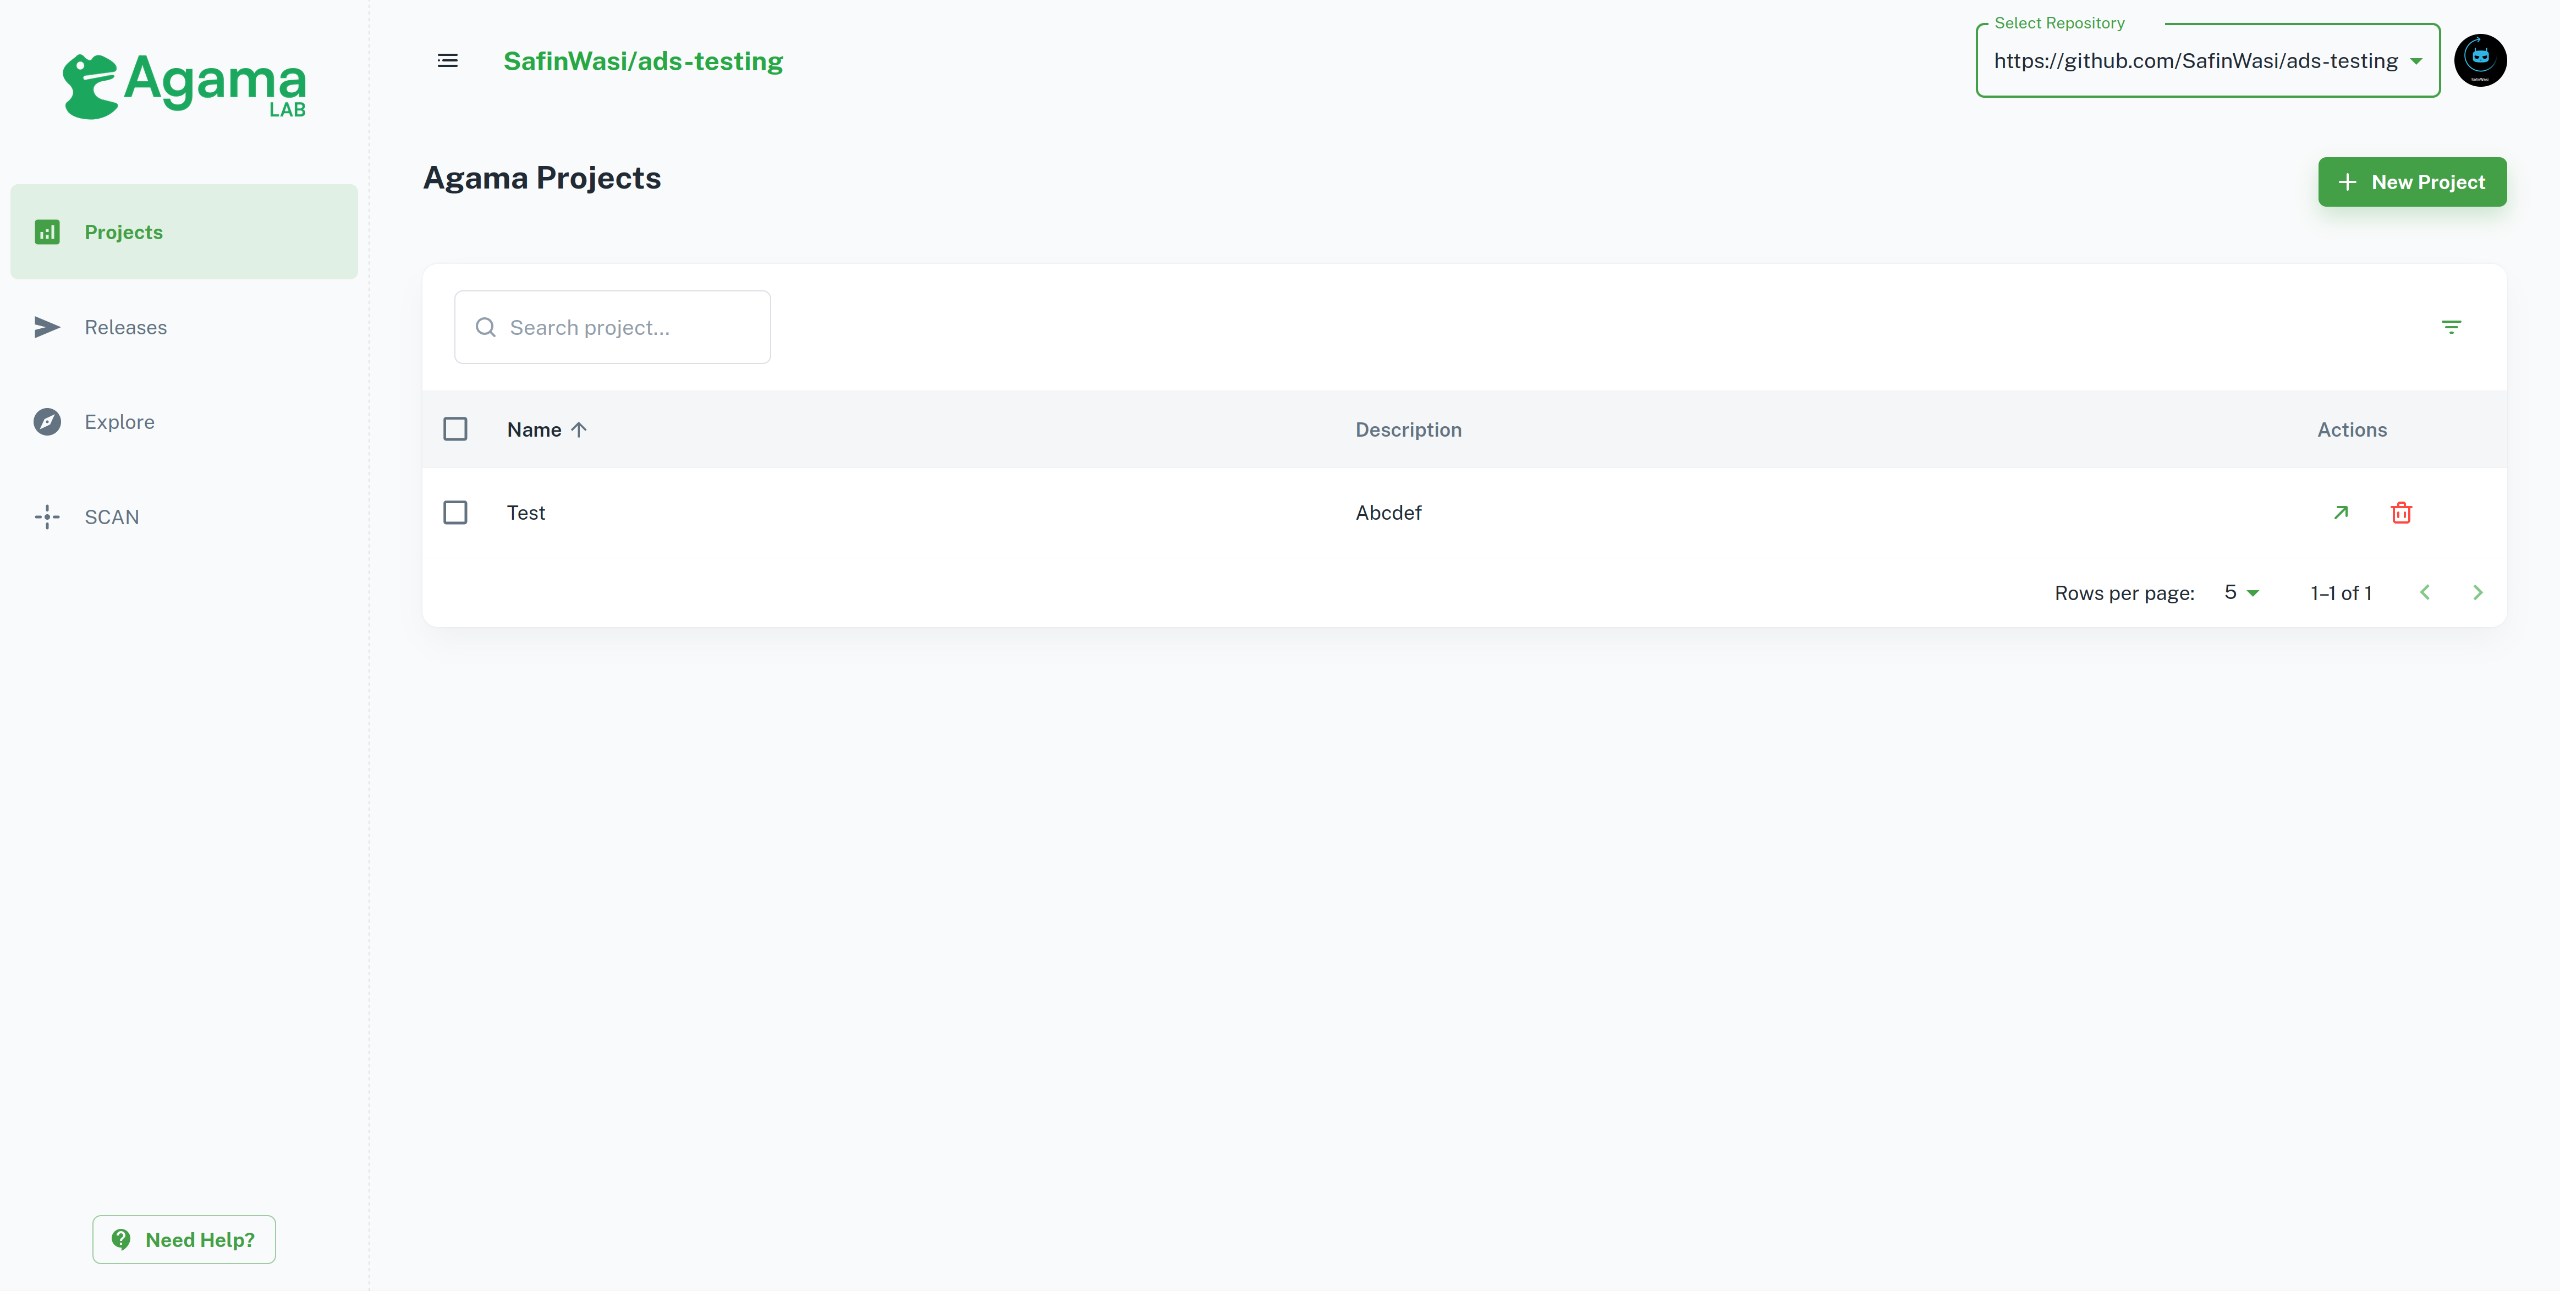
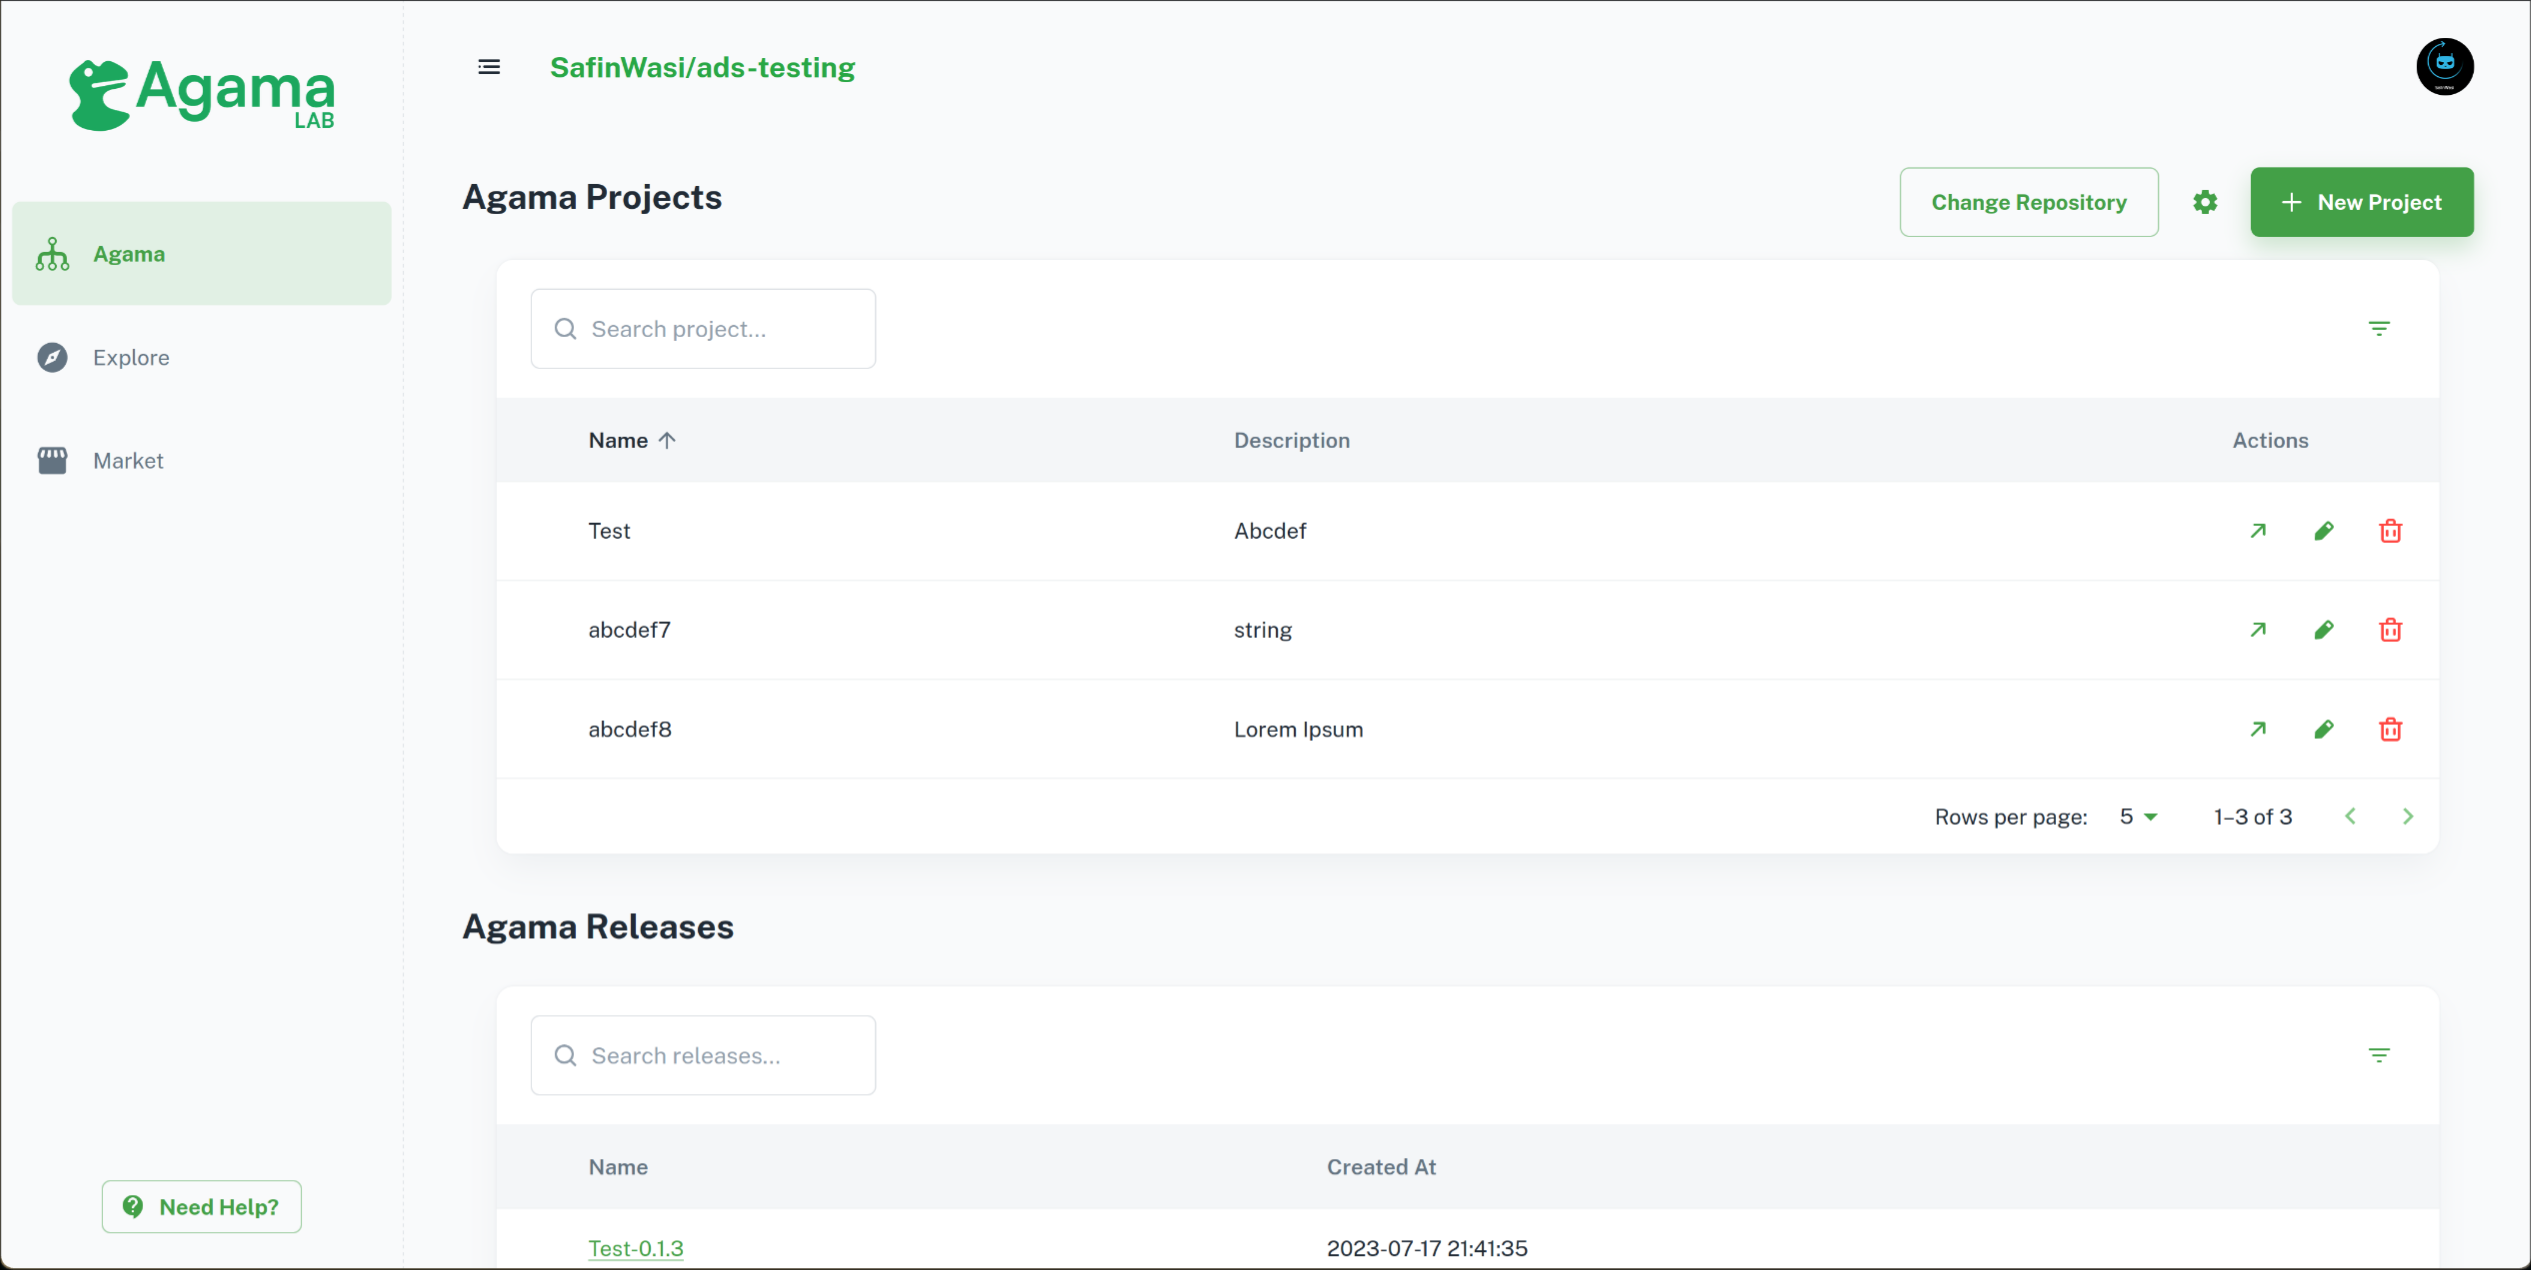
docs: update screenshots (#1469)

diff --git a/docs/install/software-statements/ssa.md b/docs/install/software-statements/ssa.md
@@ -16,9 +16,9 @@ Gluu issues SSAs through the Agama Lab web interface. You can obtain an SSA for 
 - Click on `Login with GitHub` and authorize Agama Lab to access your GitHub profile.
 - Select a repository for use with Agama Lab. The repository must have at least 1 commit on the main branch. We recommend creating a fresh repository and pushing a commit for use with Agama Lab.
 ![agama-home](../../assets/agama-lab/agama-home.png)
-- On the left navigation bar, select `SCAN`
-- Sign up for a free SCAN subscription, which will give you 500 SCAN credits. Flex does not cost any SCAN credits, so you will not be charged for SCAN.
+- On the left navigation bar, select `Market`
 - Navigate to the tab named `SSA`.
+- Sign up for a free SCAN subscription, which will give you 500 SCAN credits. Flex does not cost any SCAN credits, so you will not be charged for SCAN.
 ![ssa-management](../../assets/agama-lab/ssa-management.png)
 - Click on `Create New SSA`
     - On `Software Name`, fill in a unique identifier for this SSA
@@ -29,7 +29,11 @@ Gluu issues SSAs through the Agama Lab web interface. You can obtain an SSA for 
     - Click `Create`
 
     ![ssa-creation](../../assets/agama-lab/ssa-creation.png)
-- Click on `Detail` of the newly issued SSA, then click on `Show Base64 token`
+- Click on `Detail` of the newly issued SSA, then click on `Show JWT`
 ![ssa-details](../../assets/agama-lab/ssa-details.png)
+
 - You will be shown a long string of characters. Copy this and save it to a file.
 - You may now use this file during Flex installation.
+
+## License
+Gluu Flex uses the SSA obtained in the above step to either request a 30 day trial license or verify presence of a license tied to your Agama Lab account. One account may request one trial license in its lifetime. To purchase a full license, please navigate to the `Flex` tab of the marketplace where you may purchase licenses for up to 1600 MAU (monthly active users). To purchase an enterprise license for more MAU, please contact [Sales](mailto:sales@gluu.org).
